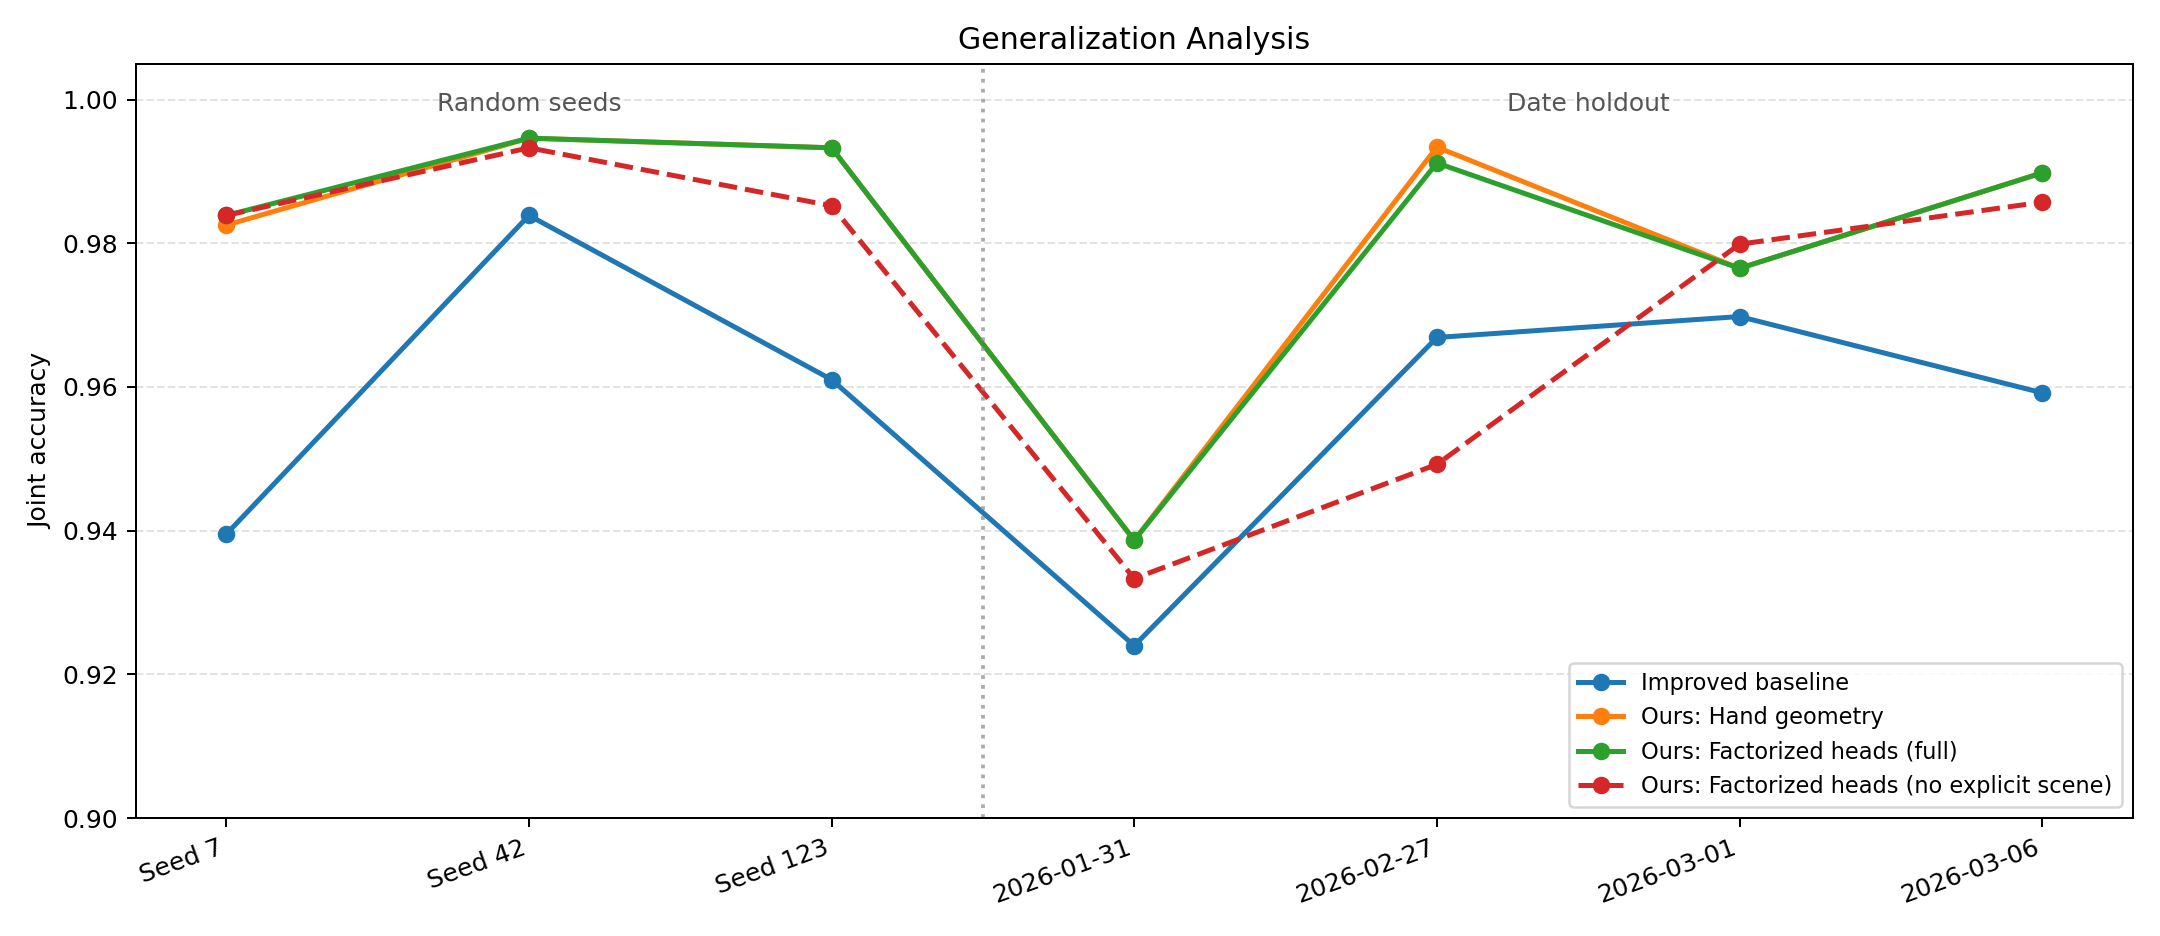
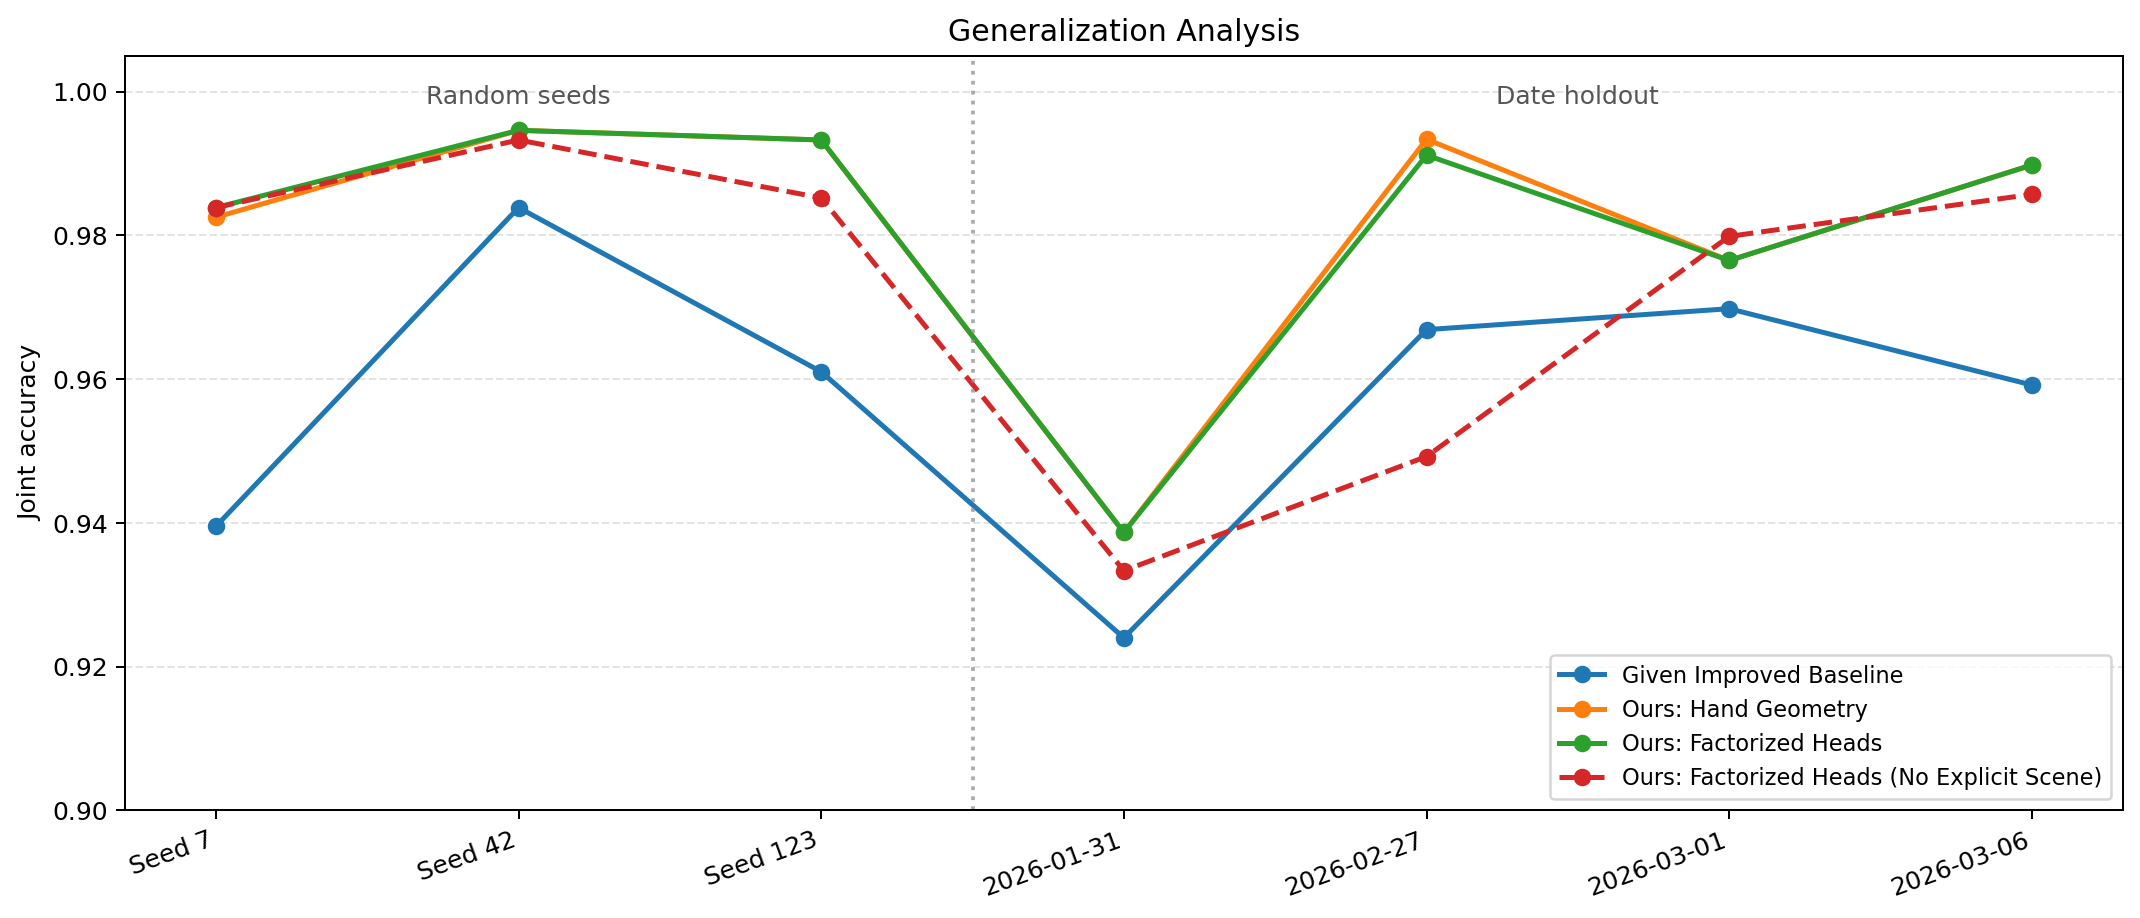
JJ6: 统一方法命名并更新分头融合可视化

diff --git a/code/visualize_method_comparison.py b/code/visualize_method_comparison.py
@@ -1,0 +1,188 @@
+from __future__ import annotations
+
+import json
+from pathlib import Path
+
+import matplotlib.pyplot as plt
+import numpy as np
+
+from project_paths import MODEL_OUTPUT_ROOT, PROJECT_ROOT
+
+
+FIGURE_DIR = PROJECT_ROOT / "docs" / "figures"
+SUMMARY_DIR = MODEL_OUTPUT_ROOT / "summary"
+
+GIVEN_BASELINE = "Given Baseline"
+GIVEN_IMPROVED = "Given Improved Baseline"
+OURS_GEOMETRY = "Ours: Hand Geometry"
+OURS_FACTORIZED = "Ours: Factorized Heads"
+OURS_FACTORIZED_NO_SCENE = "Ours: Factorized Heads (No Explicit Scene)"
+
+
+def load_json(path: Path) -> dict:
+    return json.loads(path.read_text(encoding="utf-8"))
+
+
+def final_metrics(path: Path) -> dict:
+    return load_json(path)["final_metrics"]
+
+
+def save_figure(fig: plt.Figure, filename: str) -> None:
+    FIGURE_DIR.mkdir(parents=True, exist_ok=True)
+    SUMMARY_DIR.mkdir(parents=True, exist_ok=True)
+    fig.savefig(FIGURE_DIR / filename, dpi=180, bbox_inches="tight")
+    fig.savefig(SUMMARY_DIR / filename, dpi=180, bbox_inches="tight")
+    plt.close(fig)
+
+
+def plot_main_results() -> None:
+    baseline = final_metrics(MODEL_OUTPUT_ROOT / "baseline_real_scene_perceiver_io_mptasks" / "metrics.json")
+    improved = final_metrics(MODEL_OUTPUT_ROOT / "improved_real_scene_anchor2_perceiver_io_mptasks" / "metrics.json")
+    geometry = final_metrics(MODEL_OUTPUT_ROOT / "feature_suite" / "hand_geometry" / "main" / "metrics.json")
+    factorized = load_json(MODEL_OUTPUT_ROOT / "factorized_head_fusion" / "factorized_head_fusion.json")[
+        "best_by_scenario"
+    ]["full"]
+
+    models = [GIVEN_BASELINE, GIVEN_IMPROVED, OURS_GEOMETRY, OURS_FACTORIZED]
+    series = {
+        "joint_acc": [baseline["test_joint_acc"], improved["test_joint_acc"], geometry["test_joint_acc"], factorized["joint_acc"]],
+        "intent_acc": [baseline["test_intent_acc"], improved["test_intent_acc"], geometry["test_intent_acc"], factorized["intent_acc"]],
+        "scene_acc": [baseline["test_scene_acc"], improved["test_scene_acc"], geometry["test_scene_acc"], factorized["scene_acc"]],
+    }
+    colors = ["#4C78A8", "#F58518", "#54A24B"]
+    x = np.arange(len(models))
+    width = 0.23
+    fig, ax = plt.subplots(figsize=(11.5, 5.2))
+    for index, ((label, values), color) in enumerate(zip(series.items(), colors)):
+        bars = ax.bar(x + (index - 1) * width, values, width, label=label, color=color)
+        for bar in bars:
+            ax.text(
+                bar.get_x() + bar.get_width() / 2,
+                bar.get_height() + 0.0015,
+                f"{bar.get_height():.4f}",
+                ha="center",
+                va="bottom",
+                fontsize=8,
+            )
+    ax.set_ylim(0.90, 1.01)
+    ax.set_ylabel("Accuracy")
+    ax.set_title("Main Test Results")
+    ax.set_xticks(x)
+    ax.set_xticklabels(models, rotation=8, ha="right")
+    ax.grid(axis="y", linestyle="--", alpha=0.35)
+    ax.legend(loc="lower right")
+    fig.tight_layout()
+    save_figure(fig, "main_results_methods.png")
+
+
+def generalization_rows() -> tuple[list[str], list[float], list[float], list[float], list[float]]:
+    labels = ["Seed 7", "Seed 42", "Seed 123", "2026-01-31", "2026-02-27", "2026-03-01", "2026-03-06"]
+    keys = [
+        "seed7_default_test",
+        "seed42_default_test",
+        "seed123_default_test",
+        "date_20260131_test_seed42",
+        "date_20260227_test_seed42",
+        "date_20260301_test_seed42",
+        "date_20260306_test_seed42",
+    ]
+    improved_values: list[float] = []
+    geometry_values: list[float] = []
+    factorized_values: list[float] = []
+    no_scene_values: list[float] = []
+    for key in keys:
+        improved_values.append(
+            final_metrics(MODEL_OUTPUT_ROOT / "generalization" / f"improved_{key}" / "metrics.json")["test_joint_acc"]
+        )
+        geometry_values.append(
+            final_metrics(MODEL_OUTPUT_ROOT / "generalization" / f"hand_geometry_{key}" / "metrics.json")["test_joint_acc"]
+        )
+        factorized = load_json(MODEL_OUTPUT_ROOT / "factorized_generalization" / key / "factorized_head_fusion.json")[
+            "best_by_scenario"
+        ]
+        factorized_values.append(factorized["full"]["joint_acc"])
+        no_scene_values.append(factorized["no_scene"]["joint_acc"])
+    return labels, improved_values, geometry_values, factorized_values, no_scene_values
+
+
+def plot_generalization() -> None:
+    labels, improved, geometry, factorized, no_scene = generalization_rows()
+    x = np.arange(len(labels))
+    fig, ax = plt.subplots(figsize=(12, 5.2))
+    ax.plot(x, improved, "o-", label=GIVEN_IMPROVED, linewidth=2)
+    ax.plot(x, geometry, "o-", label=OURS_GEOMETRY, linewidth=2)
+    ax.plot(x, factorized, "o-", label=OURS_FACTORIZED, linewidth=2)
+    ax.plot(x, no_scene, "o--", label=OURS_FACTORIZED_NO_SCENE, linewidth=2)
+    ax.axvline(2.5, color="#888", linestyle=":", alpha=0.7)
+    ax.text(1, 1.001, "Random seeds", ha="center", va="top", fontsize=10, color="#555")
+    ax.text(4.5, 1.001, "Date holdout", ha="center", va="top", fontsize=10, color="#555")
+    ax.set_xticks(x)
+    ax.set_xticklabels(labels, rotation=20, ha="right")
+    ax.set_ylim(0.90, 1.005)
+    ax.set_ylabel("Joint accuracy")
+    ax.set_title("Generalization Analysis")
+    ax.grid(axis="y", linestyle="--", alpha=0.35)
+    ax.legend(loc="lower right", fontsize=9)
+    fig.tight_layout()
+    save_figure(fig, "factorized_generalization.png")
+
+
+def plot_method_positioning() -> None:
+    labels, improved, geometry, factorized, no_scene = generalization_rows()
+    del labels
+    improved_no_scene = load_json(MODEL_OUTPUT_ROOT / "diagnostics" / "teacher_improved_no_scene" / "analysis_summary.json")[
+        "joint_acc"
+    ]
+    factorized_default = load_json(MODEL_OUTPUT_ROOT / "factorized_head_fusion" / "factorized_head_fusion.json")[
+        "best_by_scenario"
+    ]
+    categories = ["Full", "3-seed mean", "4-date mean", "No explicit scene\n(test-time)"]
+    values = {
+        GIVEN_IMPROVED: [0.9838709677, float(np.mean(improved[:3])), float(np.mean(improved[3:])), improved_no_scene],
+        OURS_GEOMETRY: [0.9946236559, float(np.mean(geometry[:3])), float(np.mean(geometry[3:])), np.nan],
+        OURS_FACTORIZED: [
+            factorized_default["full"]["joint_acc"],
+            float(np.mean(factorized[:3])),
+            float(np.mean(factorized[3:])),
+            factorized_default["no_scene"]["joint_acc"],
+        ],
+    }
+    x = np.arange(len(categories))
+    width = 0.24
+    colors = ["#4C78A8", "#F58518", "#54A24B"]
+    fig, ax = plt.subplots(figsize=(10.5, 5.2))
+    for index, ((name, model_values), color) in enumerate(zip(values.items(), colors)):
+        offsets = x + (index - 1) * width
+        bars = ax.bar(offsets, np.nan_to_num(model_values, nan=0.0), width, label=name, color=color)
+        for bar, value in zip(bars, model_values):
+            if np.isnan(value):
+                bar.set_visible(False)
+                continue
+            ax.text(
+                bar.get_x() + bar.get_width() / 2,
+                value + 0.0015,
+                f"{value:.4f}",
+                ha="center",
+                va="bottom",
+                fontsize=8,
+            )
+    ax.set_ylim(0.92, 1.005)
+    ax.set_ylabel("Joint accuracy")
+    ax.set_title("Method Positioning Across Evaluation Settings")
+    ax.set_xticks(x)
+    ax.set_xticklabels(categories)
+    ax.grid(axis="y", linestyle="--", alpha=0.35)
+    ax.legend(loc="lower left", fontsize=9)
+    fig.tight_layout()
+    save_figure(fig, "method_positioning.png")
+
+
+def main() -> None:
+    plot_main_results()
+    plot_generalization()
+    plot_method_positioning()
+    print(f"[saved] {FIGURE_DIR}")
+
+
+if __name__ == "__main__":
+    main()

diff --git a/code/summarize_robustness_results.py b/code/summarize_robustness_results.py
@@ -15,9 +15,9 @@ MetricRow = dict[str, str | float]
 
 
 DISPLAY_NAMES = {
-    "baseline": "Baseline",
-    "improved": "Improved baseline",
-    "hand_geometry": "Ours: Hand geometry",
+    "baseline": "Given Baseline",
+    "improved": "Given Improved Baseline",
+    "hand_geometry": "Ours: Hand Geometry",
 }
 
 
@@ -110,7 +110,8 @@ def plot_suite(rows: list[MetricRow], suite: str, output_path: Path) -> None:
         offsets = [x + (idx - (len(models) - 1) / 2) * width for x in x_positions]
         ax.bar(offsets, values, width=width, label=display_name(model))
 
-    ax.set_title(f"{suite.title()} robustness (joint accuracy)")
+    protocol = "retrained under perturbation" if suite in {"missing", "noise"} else "joint accuracy"
+    ax.set_title(f"{suite.title()} robustness ({protocol})")
     ax.set_ylabel("Joint accuracy")
     ax.set_ylim(0.0, 1.02)
     ax.set_xticks(x_positions)

diff --git a/README.md b/README.md
@@ -2,7 +2,7 @@
 
 本项目面向 AR 眼镜交互场景，研究如何利用多源传感器数据识别用户交互意图。任务输入包含 IMU、手势视频、音频、ASR 文本和场景视觉五类模态，输出为 6 类意图与 2 类场景组合而成的 12 类联合标签。
 
-项目在课程给定 baseline / improved baseline 的基础上，完成了全量数据处理、特征提取、训练评估、模态缺失与噪声鲁棒性分析，并进一步引入基于 MediaPipe hand landmarks 的手部几何时序特征。该特征在主测试集和文本缺失条件下均带来了明显提升，是当前最稳定的改进方向。
+项目在 Given Baseline / Given Improved Baseline 的基础上，完成了全量数据处理、特征提取、训练评估、模态缺失与噪声鲁棒性分析，并进一步引入基于 MediaPipe hand landmarks 的手部几何时序特征。该特征在主测试集和文本缺失条件下均带来了明显提升，是当前最稳定的改进方向。
 
 ## 任务定义
 
@@ -46,13 +46,13 @@ office, museum
 
 ## 方法概览
 
-### 给定 baseline
+### Given Baseline
 
 课程给定程序包含基础多模态分类流程：对各模态分别提取特征，按交互片段对齐后送入多模态融合网络，完成 12 类联合分类。其中手势模态本身已经使用 MediaPipe hands/HandLandmarker 定位手部区域，再对手部裁剪图提取 CLIP 视觉特征；当本地 MediaPipe 版本不兼容或模型文件缺失时，代码才会退化为整帧 CLIP fallback。
 
-### Improved baseline
+### Given Improved Baseline
 
-给定 improved baseline 在 baseline 上加入了更强的融合结构：
+Given Improved Baseline 在 Given Baseline 上加入了更强的融合结构：
 
 - 以 Gesture / Text / Scene 作为主锚点进行融合。
 - 通过 Perceiver-style latent tokens 汇聚多模态信息。
@@ -62,7 +62,7 @@ office, museum
 
 该模型在完整测试集上已经达到较高准确率，但诊断显示它对文本语义依赖较强：当 Text 模态缺失时，性能下降明显。
 
-### 手部几何特征
+### Ours: Hand Geometry
 
 为降低模型对 ASR 文本的依赖，项目新增了基于 MediaPipe hand landmarks 的显式手部几何时序特征：
 
@@ -78,21 +78,36 @@ code/feature_extraction/extract_hand_geometry_features.py
 - 拇指与其他指尖的 pinch 距离。
 - 掌宽、手高等尺度归一化几何量。
 
-与给定流程中的“MediaPipe 手部裁剪 + CLIP 视觉编码”相比，hand geometry 不再把 landmarks 只作为裁剪依据，而是直接把关键点相对位置、尺度和指尖关系作为时序输入。因此它更关注动作轨迹和手形结构，尤其适合区分 `brush`、`magnify`、`select` 等细粒度交互动作。
+与给定流程中的“MediaPipe 手部裁剪 + CLIP 视觉编码”相比，Hand Geometry 不再把 landmarks 只作为裁剪依据，而是直接把关键点相对位置、尺度和指尖关系作为时序输入。因此它更关注动作轨迹和手形结构，尤其适合区分 `brush`、`magnify`、`select` 等细粒度交互动作。
+
+### Ours: Factorized Heads
+
+为恢复 Hand Geometry 在显式 Scene 模态缺失时的场景判别能力，进一步采用分头晚期融合：
+
+```text
+Hand Geometry checkpoint  -> intent logits
+Given Improved Baseline   -> scene logits
+joint logits = intent logits + scene logits
+```
+
+该方法不在输入层拼接两种手势特征，而是让几何分支负责动作意图，让原 MediaPipe-cropped CLIP 分支提供场景上下文。它是针对显式 Scene 缺失的扩展方法，主方法仍为单模型 Hand Geometry。
 
 ## 实验结果
 
 ### 主结果
 
-![主结果对比](docs/figures/main_results_hand_geometry.png)
+![主结果对比](docs/figures/main_results_methods.png)
 
 | 模型 / 特征 | joint_acc | intent_acc | scene_acc |
 |---|---:|---:|---:|
-| Baseline + MediaPipe Tasks | 0.9516 | 0.9637 | 0.9879 |
-| Improved baseline | 0.9839 | 0.9839 | 1.0000 |
-| Ours: Hand geometry | **0.9946** | **0.9946** | **1.0000** |
+| Given Baseline | 0.9516 | 0.9637 | 0.9879 |
+| Given Improved Baseline | 0.9839 | 0.9839 | 1.0000 |
+| Ours: Hand Geometry | **0.9946** | **0.9946** | **1.0000** |
+| Ours: Factorized Heads | **0.9946** | **0.9946** | **1.0000** |
 
-Ours: Hand geometry 在主测试集上只错 4 个样本，12 类联合分类准确率达到 `0.9946`。
+Ours: Hand Geometry 在主测试集上只错 4 个样本，12 类联合分类准确率达到 `0.9946`。Factorized Heads 保持相同完整模态性能，主要收益体现在显式 Scene 模态缺失场景。
+
+![方法定位](docs/figures/method_positioning.png)
 
 ![Hand Geometry 混淆矩阵](docs/figures/hand_geometry_confusion_matrix.png)
 
@@ -102,7 +117,7 @@ Ours: Hand geometry 在主测试集上只错 4 个样本，12 类联合分类准
 
 ![模态缺失鲁棒性](docs/figures/hand_geometry_robustness_missing.png)
 
-| 缺失设置 | Improved baseline | Ours: Hand geometry | 变化 |
+| 缺失设置 | Given Improved Baseline | Ours: Hand Geometry | 变化 |
 |---|---:|---:|---:|
 | no_text | 0.4933 | **0.7675** | +0.2742 |
 | no_audio_text | 0.3723 | **0.7473** | +0.3750 |
@@ -110,15 +125,15 @@ Ours: Hand geometry 在主测试集上只错 4 个样本，12 类联合分类准
 | no_gesture_text | 0.5672 | **0.6465** | +0.0793 |
 | no_scene | **0.9785** | 0.8293 | -0.1492 |
 
-结果说明：hand geometry 显著增强了文本缺失条件下的意图识别能力。即使没有 ASR 文本，模型仍能从手部轨迹中恢复大量动作信息。
+结果说明：Hand Geometry 显著增强了文本缺失条件下的意图识别能力。即使没有 ASR 文本，模型仍能从手部轨迹中恢复大量动作信息。
 
-需要注意的是，hand geometry 对 `no_scene` 条件不占优。该设置下 intent 准确率仍有 `0.9933`，但 scene 准确率下降到 `0.8333`，导致 joint 准确率降低。这说明手部几何主要增强动作意图，不替代场景识别。
+需要注意的是，Hand Geometry 对 `no_scene` 条件不占优。该设置下 intent 准确率仍有 `0.9933`，但 scene 准确率下降到 `0.8333`，导致 joint 准确率降低。这说明手部几何主要增强动作意图，不替代场景识别。
 
 ### 噪声鲁棒性
 
 ![噪声鲁棒性](docs/figures/hand_geometry_robustness_noise.png)
 
-| 噪声设置 | Improved baseline | Ours: Hand geometry |
+| 噪声设置 | Given Improved Baseline | Ours: Hand Geometry |
 |---|---:|---:|
 | gesture_noise_60 | **0.9879** | 0.9772 |
 | text_noise_60 | 0.9718 | **0.9946** |
@@ -126,20 +141,20 @@ Ours: Hand geometry 在主测试集上只错 4 个样本，12 类联合分类准
 | imu_noise_60 | 0.9839 | **0.9946** |
 | scene_noise_60 | 0.9839 | **0.9933** |
 
-Ours: Hand geometry 在大多数噪声设置下保持在 `0.99` 左右。文本高噪声下仍能保持主结果水平，进一步说明动作几何特征缓解了模型对文本模态的依赖。
+Ours: Hand Geometry 在大多数噪声设置下保持在 `0.99` 左右。文本高噪声下仍能保持主结果水平，进一步说明动作几何特征缓解了模型对文本模态的依赖。
 
 ### 泛化分析
 
 ![泛化分析](docs/figures/factorized_generalization.png)
 
-| 泛化设置 | Improved baseline | Ours: Hand geometry | Ours: Factorized heads | Factorized no explicit scene |
+| 泛化设置 | Given Improved Baseline | Ours: Hand Geometry | Ours: Factorized Heads | Factorized Heads (No Explicit Scene) |
 |---|---:|---:|---:|---:|
 | 3-seed mean | 0.9615 | 0.9901 | **0.9906** | 0.9875 |
 | 4-date holdout mean | 0.9550 | **0.9746** | 0.9740 | 0.9620 |
 
-随机种子和按采集日期整批留出的结果表明，hand geometry 的提升不只存在于默认 seed 42。日期留出中最困难的 `2026-01-31` 组 joint accuracy 为 `0.9387`，说明模型仍受采集批次、动作表现和文本分布变化影响。
+随机种子和按采集日期整批留出的结果表明，Hand Geometry 的提升不只存在于默认 seed 42。日期留出中最困难的 `2026-01-31` 组 joint accuracy 为 `0.9387`，说明模型仍受采集批次、动作表现和文本分布变化影响。
 
-Factorized heads 使用 hand geometry checkpoint 的 intent head 和 improved baseline 的 scene head。它在不降低完整模态主结果的情况下，将默认 split 的 `no_scene` joint accuracy 恢复到 `0.9933`。这里的 `no_scene` 指移除显式 ViT scene feature；MediaPipe 裁剪后的 CLIP gesture 仍可能保留部分背景信息，因此该结果应解释为“显式 Scene 模态缺失鲁棒性”，而不是完全无场景视觉输入。
+Ours: Factorized Heads 使用 Hand Geometry checkpoint 的 intent head 和 Given Improved Baseline 的 scene head。它在不降低完整模态主结果的情况下，将默认 split 的 `no_scene` joint accuracy 恢复到 `0.9933`。这里的 `no_scene` 指移除显式 ViT scene feature；MediaPipe 裁剪后的 CLIP gesture 仍可能保留部分背景信息，因此该结果应解释为“显式 Scene 模态缺失鲁棒性”，而不是完全无场景视觉输入。
 
 此外，前述模态缺失和噪声表格中的模型是在对应扰动条件下重新训练的。使用干净 checkpoint 直接面对测试时突发文本噪声时性能仍会明显下降，说明任意 test-time OOD 鲁棒性仍是后续工作。
 
@@ -150,11 +165,12 @@ Factorized heads 使用 hand geometry checkpoint 的 intent head 和 improved ba
 | 尝试 | 结论 |
 |---|---|
 | Hierarchical Margin Loss | 可作为辅助探索，但提升不稳定 |
-| Focal Loss / Missing Modality Distillation | 未稳定超过 improved baseline |
+| Focal Loss / Missing Modality Distillation | 未稳定超过 Given Improved Baseline |
 | Supervised Contrastive Loss / Prototype 分类 / Ensemble | 整体收益有限 |
 | ASR 文本模板增强 | 降低主任务准确率，可能稀释语义空间 |
-| MediaPipe-cropped CLIP gesture + hand geometry 早期拼接 | 主任务降至 0.9704，不如纯 hand geometry |
-| Ours: Hand geometry 替换 gesture 特征 | 当前最有效，主任务 0.9946，文本缺失鲁棒性明显提升 |
+| MediaPipe-cropped CLIP gesture + Hand Geometry 早期拼接 | 主任务降至 0.9704，不如纯 Hand Geometry |
+| Ours: Hand Geometry 替换 gesture 特征 | 当前最有效，主任务 0.9946，文本缺失鲁棒性明显提升 |
+| Ours: Factorized Heads | 保持完整模态性能，并恢复显式 Scene 缺失下的场景判别 |
 
 这些结果表明，在当前数据集上继续堆叠融合头或损失函数的收益有限；更有效的方向是改进动作本身的表示，使模型获得更直接的手部轨迹证据。
 
@@ -171,6 +187,7 @@ code/
   run_gesture_geometry_suite.py          # hand geometry 一键实验
   run_gesture_fusion_suite.py            # CLIP + geometry 拼接实验
   summarize_robustness_results.py        # 鲁棒性结果汇总与可视化
+  visualize_method_comparison.py         # 方法主结果、定位与泛化可视化
   feature_extraction/
     get_timestamp.py
     strong_gesture2.0.py
@@ -185,6 +202,9 @@ docs/figures/
   hand_geometry_robustness_noise.png
   hand_geometry_confusion_matrix.png
   hand_geometry_loss_curve.png
+  main_results_methods.png
+  method_positioning.png
+  factorized_generalization.png
 ```
 
 ## 复现实验